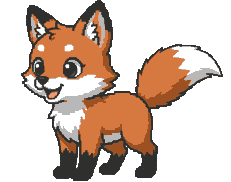
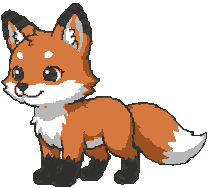
(content) The new standing idle, shrunk without the shimmer
Kayleigh's Idle V2 replaces the idle that was cut out of Fox Play 02. It is
built from her full-size frames rather than her hand-resized ones: the
resize is what made it look like TV static and made the eyes, ears and feet
twitch, and the importer can now shrink without either.

- fox_import.py: an opt-in "stabilise" path for shrinking an animation.
  It undoes one-frame pixel blips at full size, shrinks by majority vote
  instead of smooth-resample-then-snap, then cleans leftover specks. On this
  clip that takes one-frame blips from 274 to 4 per frame, and the feet
  don't move at all. Also adds "palette_map", "src_in_repo", and a
  foot-drift check for clips marked "planted".
- The stray light orange #ea9c74 is folded into the body orange, since the
  colour-options shader can't recolour it.
- fox_v2.gd: idle is 23 frames at 12fps, ping-ponged until the tail gets a
  bridge frame, and rests on frame 1 for 2-6s between swings so the blink
  isn't constant.
- Her source frames stay where she pushed them, behind a .gdignore so Godot
  doesn't import 23 full-HD frames into the build.

diff --git a/tools/fox_import.py b/tools/fox_import.py
@@ -56,6 +56,14 @@ lands on three pixels wherever it starts — so the upscaled clips match the ref
 outline exactly rather than going lumpy. That only holds at x1.5; an arbitrary scale
 would give a mix of 2px and 3px and look chewed.
 
+--- Shrinking an animation without shimmer ("stabilise") ---------------------
+
+The smooth path is right for a still but shimmers on a generated animation, whose fur
+"boils": pixels that flip shade for one frame and back. Opt-in per clip, "stabilise"
+removes those blips at full size, shrinks by majority vote instead (always a palette
+colour, so nothing to snap), and cleans any speck that survives. See the functions
+under "Stabilised shrinking" for the measurements behind it.
+
 --- Usage --------------------------------------------------------------------
 
 Measure a folder and get a suggested scale (relative to `walk`, the size reference):
@@ -281,14 +289,176 @@ def snap_to_palette(rgb: np.ndarray, palette: np.ndarray) -> np.ndarray:
     return out.reshape(rgb.shape).astype(np.uint8)
 
 
+# --- Stabilised shrinking ---------------------------------------------------------
+#
+# The smooth-resample-then-snap path above is right for a single still, but on an
+# animation it shimmers. The generated source "boils": at full size a percent or two of
+# the fur pixels flip to a neighbouring shade for one frame and straight back. Invisible
+# at 1080p. Shrunk 4.5x, each blip tips a few output pixels across the snap threshold,
+# and the result reads as TV static over the fox, with features nudged a pixel either
+# way. Measured on the v2 idle: 274 one-frame blips per output frame by the smooth path,
+# 4 by this one, with the eyes, ears and feet tracking the source's true motion.
+#
+# Three steps, switched on per clip with "stabilise": true:
+#   1. temporal_despeckle   at full size, undo every one-frame blip.
+#   2. mode_downsample      each output pixel takes the commonest colour in its
+#                           footprint. Always a palette colour, so no snap, and a blip
+#                           has to win a vote rather than nudge an average.
+#   3. despeckle_specks     the same blip test on the output, limited to specks of a
+#                           few pixels so a real one-frame event (a blink) survives.
+
+
+def hex_to_rgb(text: str) -> tuple[int, int, int]:
+    text = text.lstrip("#")
+    return int(text[0:2], 16), int(text[2:4], 16), int(text[4:6], 16)
+
+
+def apply_palette_map(images: list[np.ndarray], mapping: dict) -> None:
+    """Recolour stray source colours onto palette ones, in place.
+
+    For a colour the source uses that the game can't honour. The v2 idle carries a light
+    orange (#ea9c74) speckled through the fur that the colour-options shader doesn't
+    recognise, so on a recoloured fox it stays orange.
+    """
+    for src, dst in mapping.items():
+        s, d = hex_to_rgb(src), hex_to_rgb(dst)
+        for image in images:
+            hit = (image[:, :, :3] == s).all(axis=2)
+            image[hit, :3] = d
+
+
+def to_indexed(image: np.ndarray, palette: np.ndarray) -> np.ndarray:
+    """0 for transparent, 1..n for palette colours. Off-palette pixels go to the nearest."""
+    opaque = image[:, :, 3] >= ALPHA_CUTOFF
+    rgb = snap_to_palette(image[:, :, :3], palette).astype(np.int32)
+    index = np.zeros(image.shape[:2], dtype=np.int16)
+    for i, colour in enumerate(palette):
+        index[(rgb == colour).all(axis=2)] = i + 1
+    index[~opaque] = 0
+    return index
+
+
+def from_indexed(index: np.ndarray, palette: np.ndarray) -> np.ndarray:
+    lut = np.zeros((len(palette) + 1, 4), dtype=np.uint8)
+    lut[1:, :3] = palette
+    lut[1:, 3] = 255
+    return lut[index]
+
+
+def temporal_despeckle(frames: list[np.ndarray], cyclic: bool) -> list[np.ndarray]:
+    """Where a pixel's neighbours in time agree and it doesn't, give it theirs.
+
+    Only ever touches A-B-A. Steady motion (A-A-B, A-B-B, A-B-C) passes through
+    untouched, so this removes boil without smearing movement. `cyclic` treats the last
+    frame as next to the first, which is right for a loop and wrong for anything else.
+    """
+    n = len(frames)
+    out = []
+    for t in range(n):
+        if not cyclic and (t == 0 or t == n - 1):
+            out.append(frames[t].copy())
+            continue
+        before, after = frames[(t - 1) % n], frames[(t + 1) % n]
+        blip = (before == after) & (frames[t] != before)
+        fixed = frames[t].copy()
+        fixed[blip] = before[blip]
+        out.append(fixed)
+    return out
+
+
+# A transparent pixel has to win the footprint vote by this margin. Without it, outline
+# cells that straddle the edge go transparent about half the time and the 3px outline
+# thins and breaks.
+MODE_TRANSPARENT_WEIGHT = 0.85
+
+
+def mode_downsample(index: np.ndarray, out_w: int, out_h: int, colours: int) -> np.ndarray:
+    """Shrink an indexed frame by majority vote over each output pixel's footprint.
+
+    The footprint grid is fixed by the crop and the scale alone, so it is identical for
+    every frame of the clip: a part of the fox that holds still in the source holds
+    exactly still in the output.
+    """
+    h, w = index.shape
+    ys = np.minimum((np.arange(h) * out_h // h), out_h - 1)
+    xs = np.minimum((np.arange(w) * out_w // w), out_w - 1)
+    cell = (ys[:, None] * out_w + xs[None, :]).ravel()
+    votes = np.zeros((out_h * out_w, colours + 1), dtype=np.float32)
+    np.add.at(votes, (cell, index.ravel()), 1.0)
+    votes[:, 0] *= MODE_TRANSPARENT_WEIGHT
+    return votes.argmax(axis=1).reshape(out_h, out_w).astype(np.int16)
+
+
+def despeckle_specks(frames: list[np.ndarray], cyclic: bool, max_pixels: int = 3) -> list[np.ndarray]:
+    """The A-B-A fix again, on the output, but only for specks of `max_pixels` or fewer.
+
+    The size limit is what keeps genuine one-frame events: a blink or an ear flick is a
+    shape, a leftover boil pixel is a speck.
+    """
+    n = len(frames)
+    out = []
+    for t in range(n):
+        fixed = frames[t].copy()
+        if not cyclic and (t == 0 or t == n - 1):
+            out.append(fixed)
+            continue
+        before, after = frames[(t - 1) % n], frames[(t + 1) % n]
+        blip = (before == after) & (frames[t] != before)
+        seen = np.zeros_like(blip)
+        for y, x in zip(*np.nonzero(blip)):
+            if seen[y, x]:
+                continue
+            component, stack = [], [(y, x)]
+            seen[y, x] = True
+            while stack:
+                cy, cx = stack.pop()
+                component.append((cy, cx))
+                for ny in range(max(0, cy - 1), min(blip.shape[0], cy + 2)):
+                    for nx in range(max(0, cx - 1), min(blip.shape[1], cx + 2)):
+                        if blip[ny, nx] and not seen[ny, nx]:
+                            seen[ny, nx] = True
+                            stack.append((ny, nx))
+            if len(component) <= max_pixels:
+                for cy, cx in component:
+                    fixed[cy, cx] = before[cy, cx]
+        out.append(fixed)
+    return out
+
+
+def foot_drift(frames: list[np.ndarray]) -> float:
+    """How far the fox's lowest pixels wander over the clip, in output pixels.
+
+    The bottom edge and the left and right ends of the bottom three rows, frame by frame;
+    the drift is the largest spread of any of the three. For a clip where the feet are
+    planted ("planted": true in the manifest) anything over a pixel is a fault: it's the
+    fox sliding on the spot.
+    """
+    bottoms, lefts, rights = [], [], []
+    for frame in frames:
+        opaque = frame[:, :, 3] >= ALPHA_CUTOFF
+        rows = np.nonzero(opaque.any(axis=1))[0]
+        if len(rows) == 0:
+            continue
+        bottom = rows[-1]
+        cols = np.nonzero(opaque[max(0, bottom - 2) : bottom + 1].any(axis=0))[0]
+        bottoms.append(bottom)
+        lefts.append(cols[0])
+        rights.append(cols[-1])
+    if not bottoms:
+        return 0.0
+    return float(max(np.ptp(bottoms), np.ptp(lefts), np.ptp(rights)))
+
+
 def process_clip(spec: dict, root: Path, src_root: Path | None = None, dry_run: bool = False) -> dict:
     name = spec["name"]
     source = Path(spec["src"])
     if not source.is_absolute():
         # Clip sources are relative to the manifest's src_root — the folder the artist's
         # delivery was unpacked into. Keeping it in one place means a delivery that lands
-        # somewhere else only changes that one line.
-        source = ((src_root or root) / source).resolve()
+        # somewhere else only changes that one line. "src_in_repo" is for a delivery the
+        # artist pushed to the repo instead; that path is relative to the repo root.
+        base = root if spec.get("src_in_repo") else (src_root or root)
+        source = (base / source).resolve()
     if not source.is_dir():
         raise SystemExit(
             f"[{name}] source folder not found:\n  {source}\n"
@@ -324,6 +494,9 @@ def process_clip(spec: dict, root: Path, src_root: Path | None = None, dry_run: 
         for image in images:
             keep = largest_blob(image[:, :, 3] >= ALPHA_CUTOFF)
             image[~keep] = 0
+
+    if spec.get("palette_map"):
+        apply_palette_map(images, spec["palette_map"])
 
     # One rectangle for the whole clip: the union of every frame's drawn area. This is
     # what keeps the motion — crop each frame to its own content and the fox would be
@@ -372,11 +545,24 @@ def process_clip(spec: dict, root: Path, src_root: Path | None = None, dry_run: 
     for existing in out_dir.glob("*.png"):
         existing.unlink()
 
+    stabilise = bool(spec.get("stabilise")) and scale < 1.0
+    if stabilise:
+        # The whole clip at once, because both despeckle passes look at a frame's
+        # neighbours. "loops" says whether the last frame neighbours the first.
+        cyclic = bool(spec.get("loops", False))
+        indexed = [to_indexed(image[y0:y1, x0:x1], palette) for image in images]
+        indexed = temporal_despeckle(indexed, cyclic)
+        small = [mode_downsample(ix, out_w, out_h, len(palette)) for ix in indexed]
+        small = despeckle_specks(small, cyclic)
+        stabilised = [from_indexed(ix, palette) for ix in small]
+
     written = []
     for index, image in enumerate(images, start=1):
         cropped = image[y0:y1, x0:x1]
 
-        if scale >= 1.0:
+        if stabilise:
+            frame = Image.fromarray(stabilised[index - 1], "RGBA")
+        elif scale >= 1.0:
             # Growing (or unchanged): nearest, and nothing else. It is already exactly
             # the palette and exactly binary alpha, so there is nothing to fix up —
             # anything smoother would only introduce colours that have to be undone.
@@ -418,6 +604,15 @@ def process_clip(spec: dict, root: Path, src_root: Path | None = None, dry_run: 
     ay1 = max(b[3] for b in out_drawn)
     report["anchor"] = (round((ax0 + ax1) / 2.0, 1), float(ay1))
     report["area"] = float(np.mean([np.sqrt(drawn_area(im)) for im in written]))
+    if spec.get("planted"):
+        # Only for clips whose feet should stay put: in a walk the lowest pixels are
+        # meant to travel, so the number would just be noise.
+        report["foot_drift"] = foot_drift(written)
+    if report.get("foot_drift", 0.0) > 1.0:
+        print(
+            f"[{name}] WARNING: marked planted, but its lowest pixels wander "
+            f"{report['foot_drift']:.0f}px across the clip -- the fox slides on the spot."
+        )
 
     # Deliberately not next to the frames: anything under assets/ gets imported by Godot
     # as a game texture and shipped in the export. build/ is gitignored scratch.
@@ -474,7 +669,7 @@ def write_pack(reports: list[dict], manifest: dict, clips: list[dict], dest: Pat
         "",
     ]
 
-    order = {"reference": 0, "resized": 1, "cut": 2}
+    order = {"reference": 0, "resized": 1, "shrunk": 2, "cut": 3}
     grouped = sorted(reports, key=lambda r: order.get(by_name[r["name"]].get("pack_group", "cut"), 3))
 
     headings = {
@@ -483,6 +678,10 @@ def write_pack(reports: list[dict], manifest: dict, clips: list[dict], dest: Pat
         "resized": ("RESIZED -- worth a look, probably fine",
                     "These were drawn smaller than the rest, so they've been scaled up to match.\n"
                     "The scaling was exact (no blurring, no new colours), so they should be clean."),
+        "shrunk": ("SHRUNK FROM YOUR FULL-SIZE FRAMES -- new, worth a look",
+                   "Sent at full size and shrunk here, the way we'd like everything to arrive.\n"
+                   "The shrink also cleans up pixels that flicker for a single frame, which is\n"
+                   "what made the small version look like TV static."),
         "cut": ("CUT FROM 'FOX PLAY 02' -- these are the ones that need you",
                 "Your ball animation turned out to contain several poses the game was missing,\n"
                 "so it's been cut into separate clips. The cuts were made by measurement, not\n"
@@ -610,7 +809,12 @@ def main() -> None:
             f"{report['src_canvas'][0]}x{report['src_canvas'][1]} "
             f"crop{report['crop']} x{report['scale']} {arrow} "
             f"{report['out_canvas'][0]}x{report['out_canvas'][1]}"
-            + (f"  anchor {report['anchor']}  size {report['area']:.1f}" if "anchor" in report else "")
+            + (
+                f"  anchor {report['anchor']}  size {report['area']:.1f}"
+                + (f"  foot drift {report['foot_drift']:.0f}px" if "foot_drift" in report else "")
+                if "anchor" in report
+                else ""
+            )
         )
 
     if args.dry_run or not reports:

diff --git a/context/fox-art-spec.md b/context/fox-art-spec.md
@@ -66,7 +66,7 @@ four separate things the game needed. It's now four clips:
 
 | new clip | your frames | what it is |
 |---|---|---|
-| `idle` | 5–23 | the fox standing, blinking, tail moving |
+| ~~`idle`~~ | 5–23 | the fox standing — retired 2026-10-08, see §4a |
 | `stalk` | 61–99 (every 2nd) | the low creep |
 | `pounce` | 97–104 | the leap, stopping just before the paws land |
 | `play` | 125–151 | on its back, kicking the ball |
@@ -83,14 +83,25 @@ The cut points were chosen by measurement rather than by eye, so they're best gu
 Roughly in order, and **please don't take all of this at once** — the den items come first.
 Everything here is a "would be nice", not a blocker; the game runs on what it has.
 
-### a. A standing idle drawn as a **loop** — the big one
-The `idle` we cut out of `play` works, but it isn't a loop. It's a slice of a longer
-performance, so the last frame doesn't lead back into the first and it visibly jumps. The
-game currently hides that by playing it forwards and then backwards.
+### a. The standing idle — delivered 2026-10-08, one small fix left
+The new idle (head tilt, blink, tail swish) is in the game and looks lovely. Three notes:
 
-This is the pose the desktop pet holds most of the time, so it's the one most worth having
-properly. It would be the fox standing still, facing left, with something small and
-continuous: breathing, an ear flick, the tail.
+- **We used your full-size frames, not the resized ones.** Your resize wasn't wrong —
+  the size was spot on — but resizing is where the "TV static" and the twitching eyes
+  and feet come from, and the import script now shrinks in a way that avoids both. The
+  feet don't move by a single pixel in the game version. So: please keep sending full
+  size, and don't spend time resizing.
+- **The tail doesn't quite close the loop.** From frame 23 back to frame 1 the tail
+  jumps from low and swept back up to raised — about twice a normal step. The head is
+  fine. One or two in-between frames after 23, bringing the tail back up, would make it a
+  true loop. Until then the game plays it forwards then backwards, which works.
+- **One colour was swapped.** A pale orange (`#ea9c74`) is speckled through the fur. The
+  fox colour options only know the two body oranges, so on a recoloured fox those specks
+  would stay orange; the import turns them into the main orange. If the highlight is
+  something you want, tell us and we'll teach the colour options about it.
+
+Also: the resized folder had 45 frames where the full-size one has 23, numbered from 02.
+If there's a 46-frame full-size version, we'd love it — it would play smoother.
 
 > **What "a loop" means here, since it comes up a few times:** the game plays these over
 > and over with no gap, so the last frame has to lead straight back into the first. The
